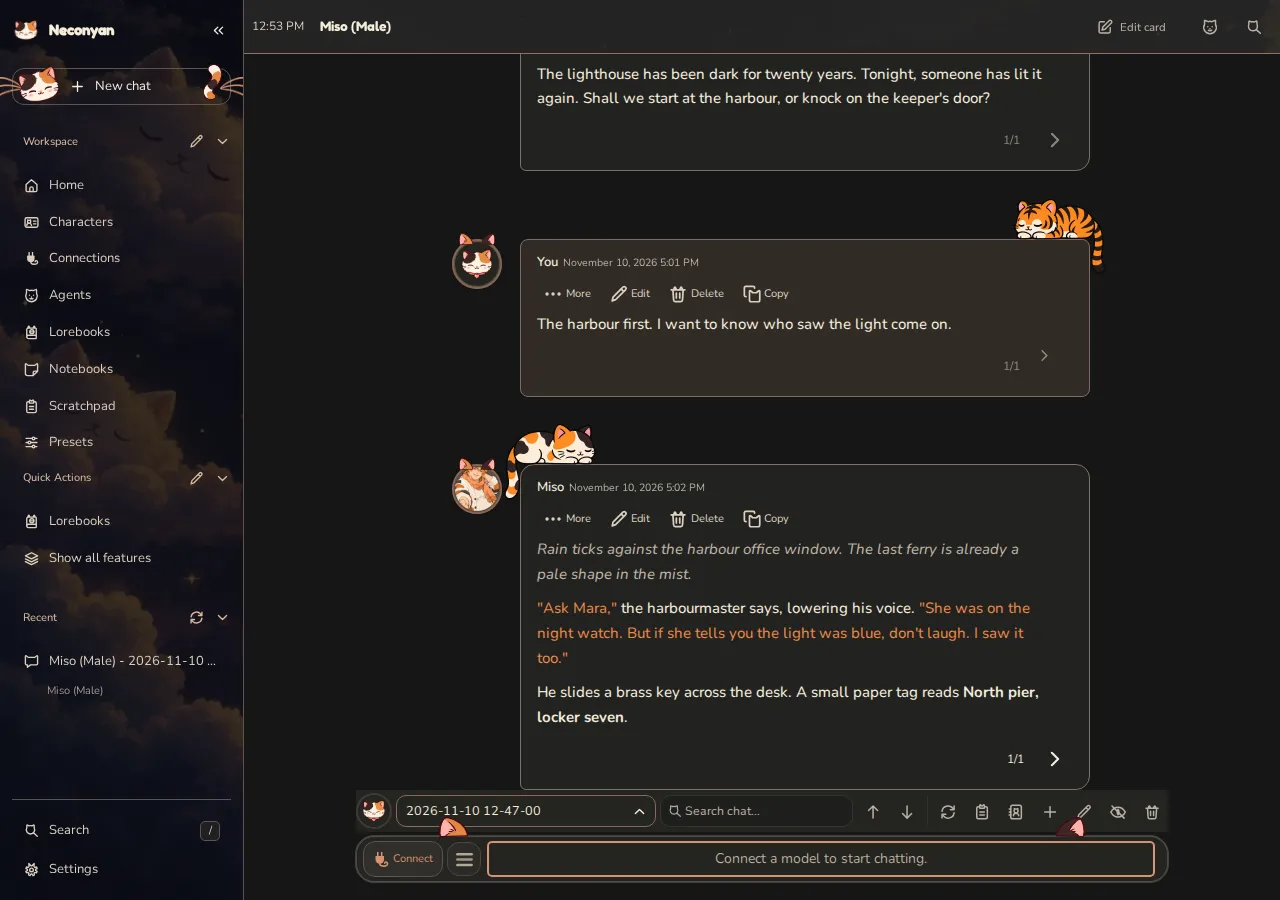
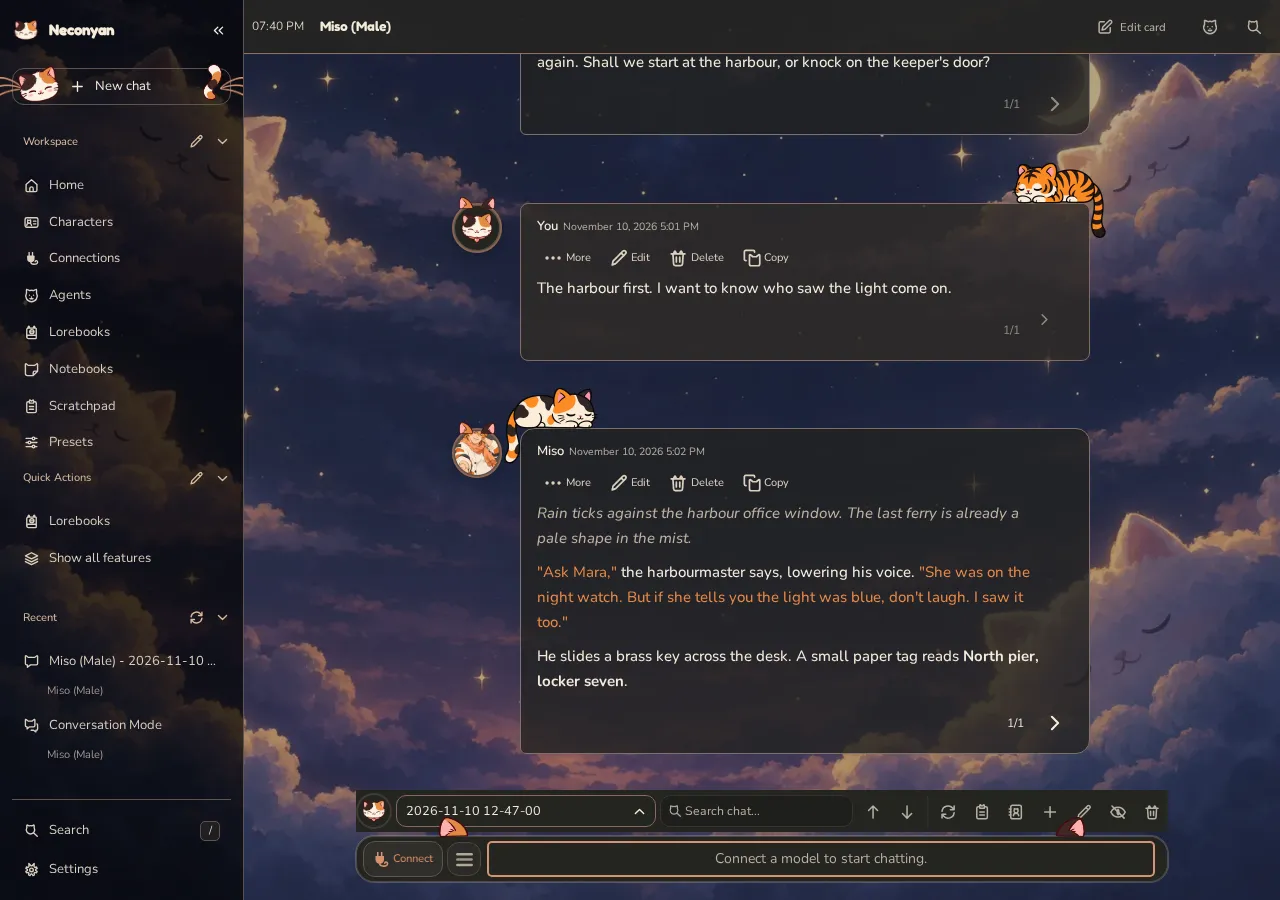
docs: retake the 1.5.4 screenshots from the current candidate

diff --git a/README.md b/README.md
@@ -6,7 +6,7 @@ I want you to get a reply before you need to understand every setting. The guide
 
 Miso, Taro and Nori explain things in their own voices. You can choose each guide’s male, female or neutral appearance independently. Their dialogue is written documentation; reading it doesn’t call a model.
 
-The site includes 55 pages, a reference for 201 registered macros, twenty-four real demonstration screenshots and a downloadable extension starter. I've reviewed the practical guides for the **Neconyan 1.5.4 staging candidate at `dca2266f`** on 10 November 2026. **1.5.4 is not published yet**; [1.5.3 is the latest published release](https://github.com/platberlitz/Neconyan/releases/tag/v1.5.3). This edition adds Device sync guidance, the phone section buttons in Prompting Lab and World Info Lab, and the contained JannyAI browser. Every workspace screenshot is refreshed, including the new Device sync page. The macro catalogue retains its reviewed 7 October snapshot. The Scene Note starter and extension styling guide carry the accent button guidance; the other extension examples retain their reviewed 7 October snapshots.
+The site includes 55 pages, a reference for 201 registered macros, twenty-four real demonstration screenshots and a downloadable extension starter. I've reviewed the practical guides for the **Neconyan 1.5.4 staging candidate at `999b46b3`** on 10 November 2026. **1.5.4 is not published yet**; [1.5.3 is the latest published release](https://github.com/platberlitz/Neconyan/releases/tag/v1.5.3). This edition adds Device sync guidance, the phone section buttons in Prompting Lab and World Info Lab, and the contained JannyAI browser. Every workspace screenshot is refreshed, including the new Device sync page. The macro catalogue retains its reviewed 7 October snapshot. The Scene Note starter and extension styling guide carry the accent button guidance; the other extension examples retain their reviewed 7 October snapshots.
 
 ## Preview locally
 
@@ -43,7 +43,7 @@ Avoid repeated 'same X' phrasing and three-item lists written for rhythm. Keep a
 
 Use demonstration data for screenshots. Desktop captures are 1280×900 and phone captures are 393×852. Keep verification captures in `screenshots/`; that directory is ignored. Images published in the handbook belong in `docs/assets/images/screenshots/`.
 
-All twenty-four screenshots were taken on 10 November 2026 from the 1.5.4 candidate at `dca2266f`, with the default Calico Dark accent and the larger, rounder Catline icons. The Proofreader example uses a fixed sample response through the real Agent workflow, with edit, Undo and Redo checked at both widths. Capture provenance and browser settings are in [ASSETS.md](ASSETS.md). When replacing screenshots, update that record and check the affected guides and screenshot zoom at both widths.
+All twenty-four screenshots were taken on 10 November 2026 from the 1.5.4 candidate at `999b46b3`, with the default Calico Dark accent and the larger, rounder Catline icons. The Proofreader example uses a fixed sample response through the real Agent workflow, with edit, Undo and Redo checked at both widths. Capture provenance and browser settings are in [ASSETS.md](ASSETS.md). When replacing screenshots, update that record and check the affected guides and screenshot zoom at both widths.
 
 ## Update the macro reference
 

diff --git a/ASSETS.md b/ASSETS.md
@@ -4,7 +4,7 @@ The bundled artwork was copied from [Neconyan at 6e0269d0](https://github.com/pl
 
 ## Screenshots
 
-All twenty-four screenshots were captured on 10 November 2026 from the running [Neconyan 1.5.4 candidate at dca2266f](https://github.com/platberlitz/Neconyan/tree/dca2266f), with the larger, rounder Catline icons. This candidate is not yet published. Home, Roleplay, Catelier, Simple Mode, Conversation, Meower, Story Mode, Notebooks, Scratchpad, Agents, Proofreader and Device sync each have a desktop and phone image.
+All twenty-four screenshots were captured on 10 November 2026 from the running [Neconyan 1.5.4 candidate at 999b46b3](https://github.com/platberlitz/Neconyan/tree/999b46b3), with the larger, rounder Catline icons. This candidate is not yet published. Home, Roleplay, Catelier, Simple Mode, Conversation, Meower, Story Mode, Notebooks, Scratchpad, Agents, Proofreader and Device sync each have a desktop and phone image.
 
 The captures use disposable demonstration data: Calico Dark with its default accent, bundled assistants and staged chats, posts, notes, a character dossier and a Scratchpad discussion. The default colours were restored and checked before capture. No personal account data was used. The Proofreader example runs the real Agent workflow with one intercepted provider request returning a fixed sample response; its edit, Undo and Redo were checked again at both widths. It isn't a live model demonstration. No external model requests were made.
 

diff --git a/docs/help/about.md b/docs/help/about.md
@@ -10,7 +10,7 @@ This is the official Neconyan handbook, built with [Material for MkDocs](https:/
 
 ## Version and scope
 
-I've reviewed these guides against the **Neconyan 1.5.4 staging candidate at dca2266f** on **10 November 2026**. This candidate is **not yet published**; [1.5.3 is the latest published release](https://github.com/platberlitz/Neconyan/releases/tag/v1.5.3). This edition adds Device sync guidance, the phone section buttons in Prompting Lab and World Info Lab, and the contained JannyAI browser. Some controls described here won't appear in 1.5.3.
+I've reviewed these guides against the **Neconyan 1.5.4 staging candidate at 999b46b3** on **10 November 2026**. This candidate is **not yet published**; [1.5.3 is the latest published release](https://github.com/platberlitz/Neconyan/releases/tag/v1.5.3). This edition adds Device sync guidance, the phone section buttons in Prompting Lab and World Info Lab, and the contained JannyAI browser. Some controls described here won't appear in 1.5.3.
 
 The macro catalogue retains its reviewed 7 October snapshot. The Scene Note starter and extension styling guide now carry the accent button guidance; the other extension examples are unchanged from their reviewed 7 October snapshots. The macro guides explain which replies are still built on the server and which macros those refuse. The newer Agent-only placeholders are documented separately and don't change the registered macro count.
 

diff --git a/docs/help/device-sync.md b/docs/help/device-sync.md
@@ -9,7 +9,7 @@ quote: 'Choose what travels, save on both sides, then transfer. A newer date alo
 **Settings → Device sync** moves selected libraries between separate Neconyan installations. If your phone and computer already open the same server and account, they already share its data.
 
 !!! info 'Available in the 1.5.4 candidate'
-    I've reviewed this guide against candidate commit **dca2266f** on 10 November 2026. Version 1.5.4 is not published yet. The current published release is [1.5.3](https://github.com/platberlitz/Neconyan/releases/tag/v1.5.3).
+    I've reviewed this guide against candidate commit **999b46b3** on 10 November 2026. Version 1.5.4 is not published yet. The current published release is [1.5.3](https://github.com/platberlitz/Neconyan/releases/tag/v1.5.3).
 
 === "On desktop"
 
